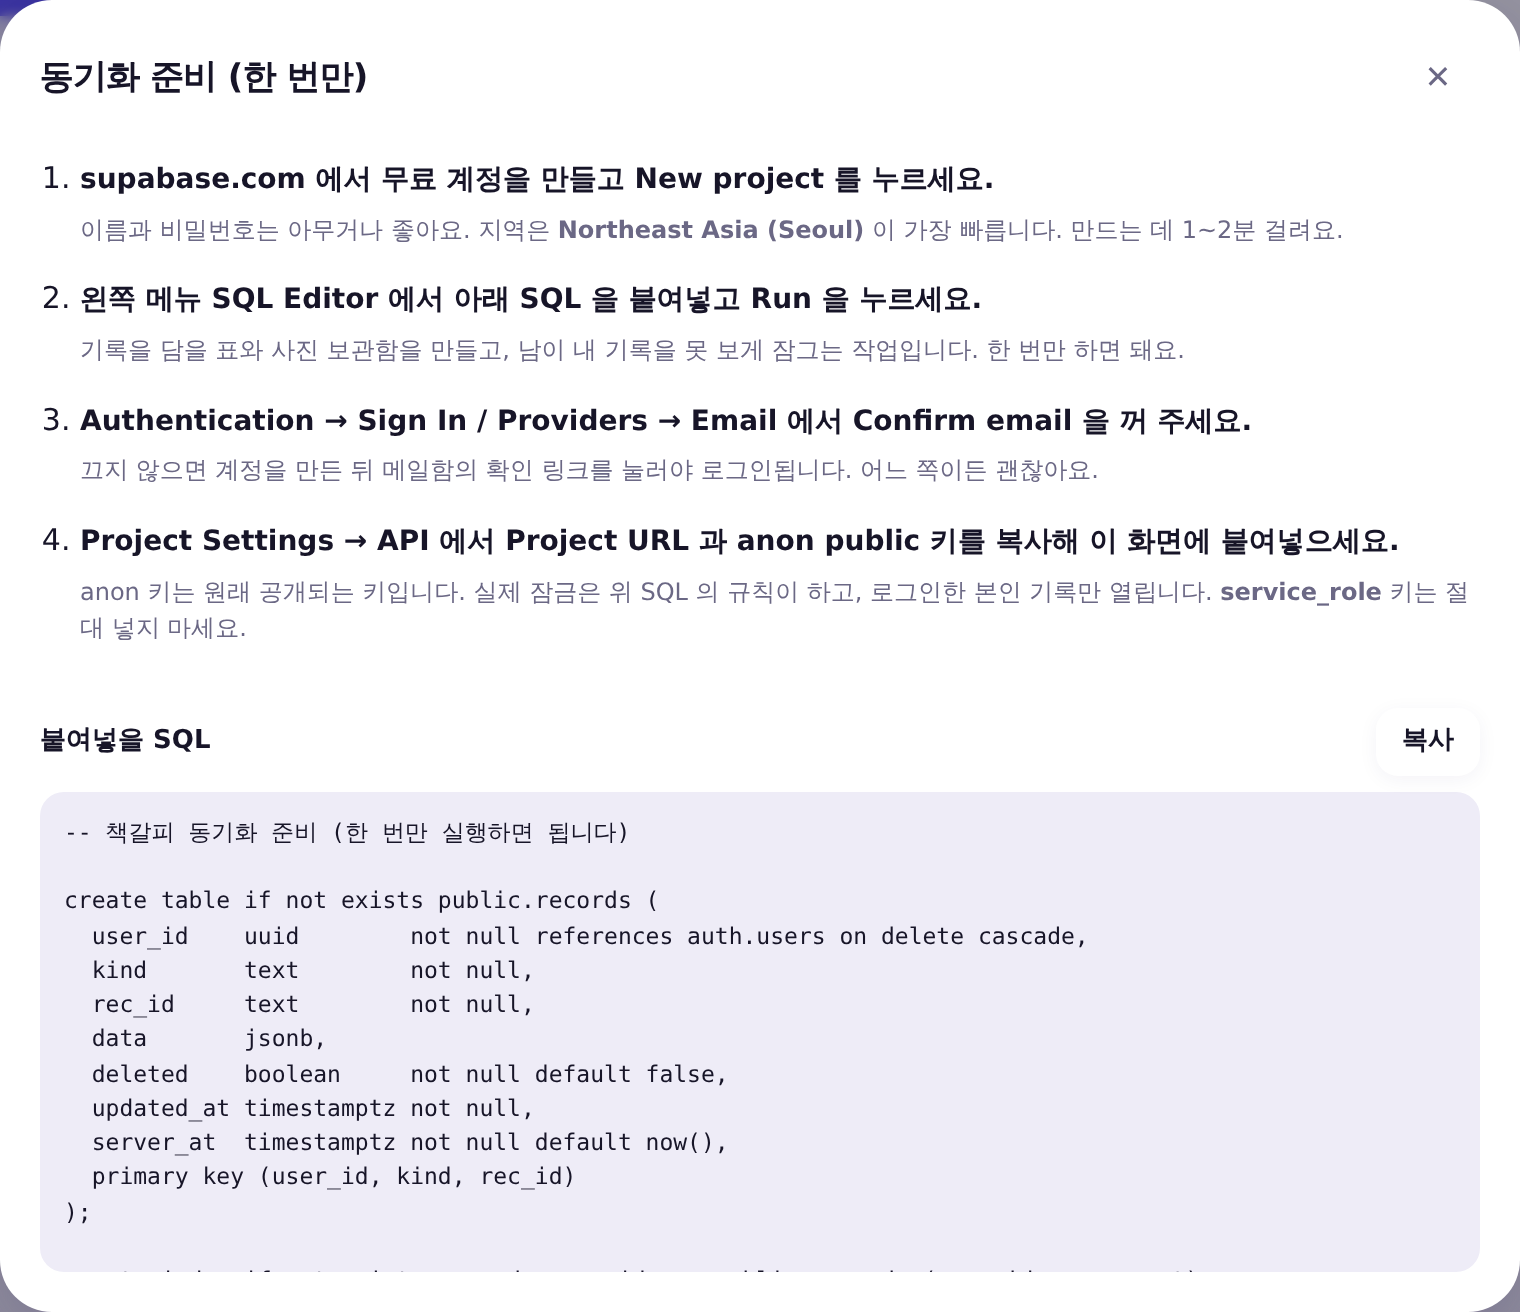
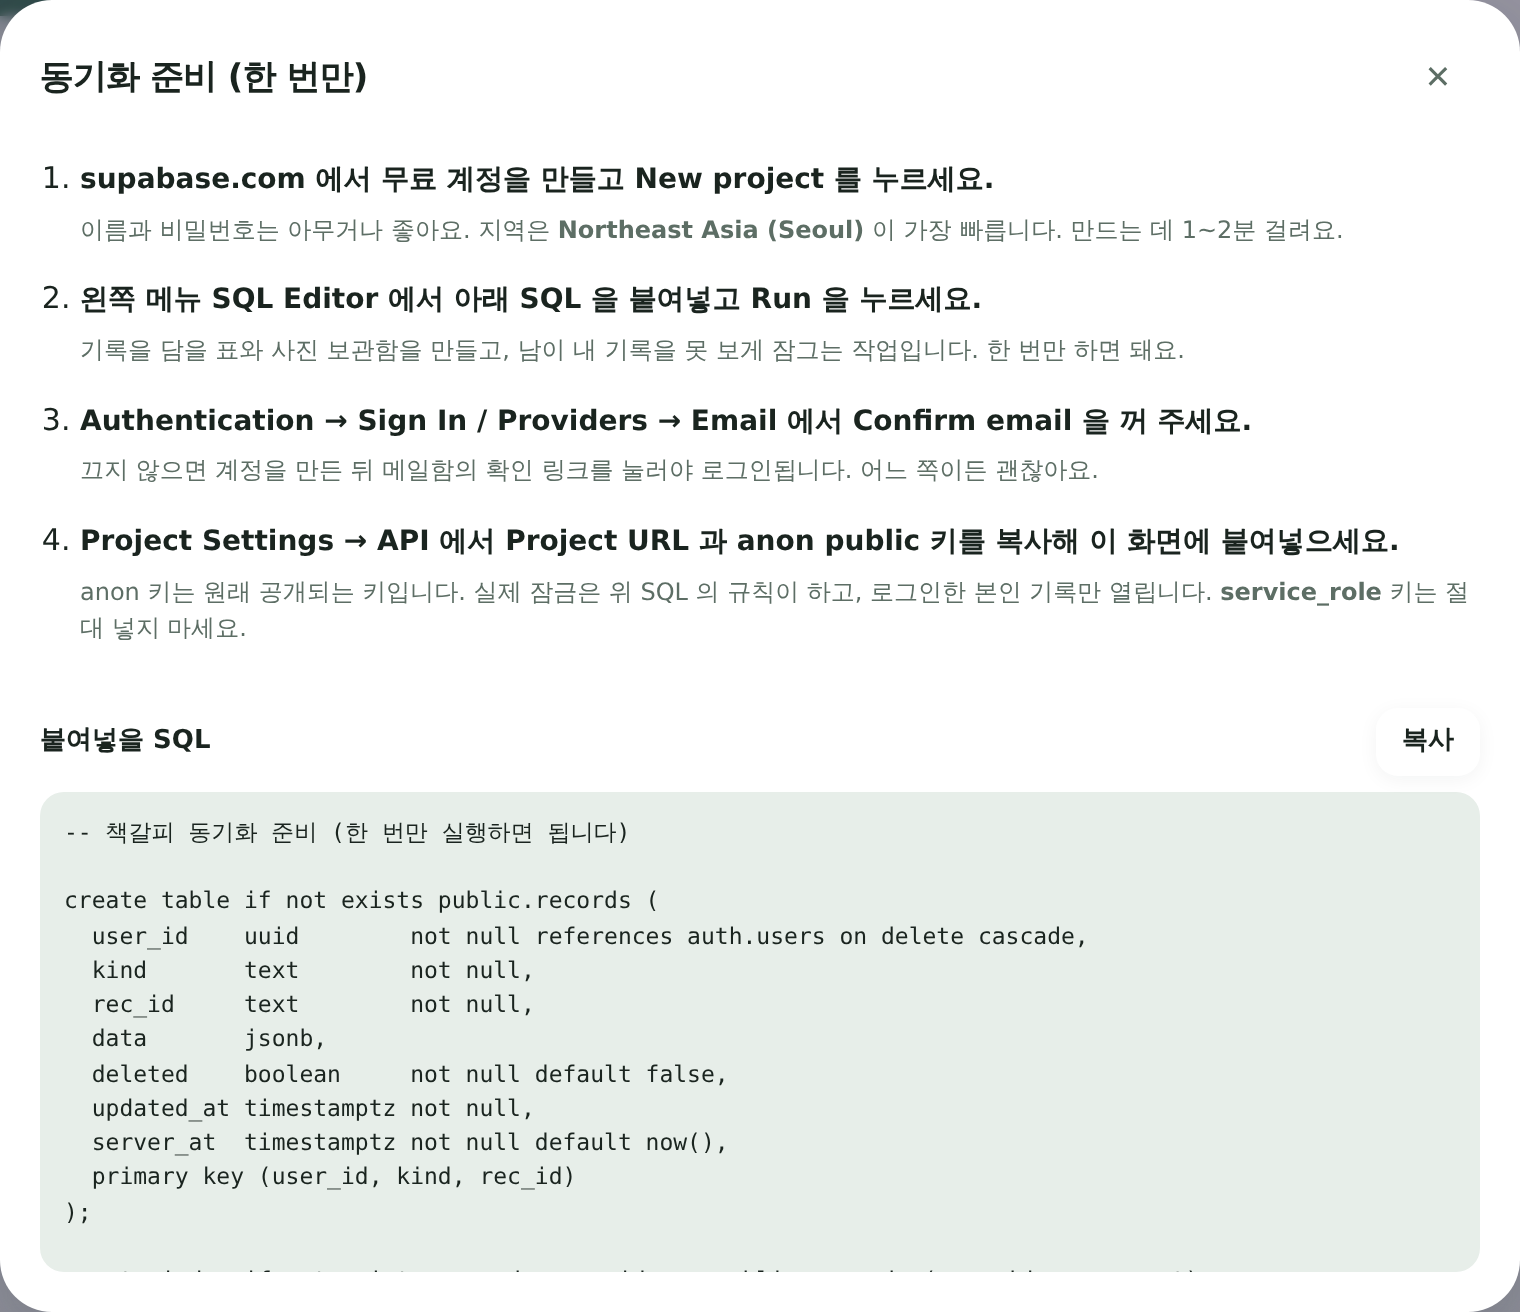
설정 버튼을 되살리고, 테마 색을 은은한 세이지 그린으로
디자인을 바꾸면서 설정이 들어 있던 옆 메뉴를 없앴는데 대신할 입구를
만들지 않아, 홈의 목표 카드를 누르는 것 말고는 설정에 닿을 길이 없었다.
상단바에 톱니바퀴를 두고 단축키 6 도 붙였다.

색은 파랑~보라에서 도서관 램프갓 같은 세이지 그린으로 옮겼다.
채도를 낮춰 은은하게 두되, 흰 글씨를 얹는 --accent 는 읽힐 만큼은
어둡게 잡았다. 밤에는 목표 카드를 한 단 더 가라앉힌다.

- 테마가 초록이 되면서 구매(초록)와 대출(청록)이 한 덩어리로 보여,
  빌린 책은 차분한 파랑(--lend)으로 따로 뺐다.
- 앱 아이콘과 매니페스트에 예전 종이 디자인의 주황색이 남아 있어 함께 맞췄다.
- input 은 기본 너비가 최소값으로 잡혀, min-width:0 이 없으면 좁은 화면에서
  상단바가 넘친다. 톱니바퀴를 넣으면서 드러났다.
- README·문서 사진을 새 색으로 다시 찍었다.

93개 통과 (기존 81 + 동기화 12).

Claude-Session: https://claude.ai/code/session_01Cp53XNTgAP4TSJ9zpSBQ1h

diff --git a/css/styles.css b/css/styles.css
@@ -3,36 +3,41 @@
    디자인 방향: 밝고 둥근 큰 카드(모바일 앱) + 상단 지표 줄(대시보드)
    ============================================================ */
 
+/* 색: 도서관 램프갓 같은 세이지 그린.
+   채도를 낮춰 은은하게 두되, 글자를 얹는 --accent 는 흰 글씨가 읽힐 만큼은 어둡게 잡았다. */
 :root {
-  --bg:          #f4f3f9;
+  --bg:          #f1f5f2;
   --bg-elev:     #ffffff;
-  --bg-sunk:     #eeecf7;
-  --line:        #e5e2f2;
-  --line-soft:   #f0eef8;
-  --text:        #171528;
-  --text-dim:    #6b6885;
-  --text-faint:  #a09dba;
+  --bg-sunk:     #e7eee9;
+  --line:        #dde8e1;
+  --line-soft:   #edf3ef;
+  --text:        #1a241f;
+  --text-dim:    #5d6e65;
+  --text-faint:  #94a69b;
 
-  --accent:      #5b52ff;
-  --accent-2:    #9b6bff;
-  --accent-soft: #eceafe;
+  --accent:      #4a7c64;
+  --accent-2:    #7fae95;
+  --accent-soft: #e6f0ea;
   --accent-ink:  #ffffff;
 
-  --ok:          #0fae8c;
-  --ok-soft:     #e0f8f2;
-  --warn:        #e39100;
-  --warn-soft:   #fff3dc;
-  --danger:      #e5503f;
-  --danger-soft: #ffeae7;
-  --star:        #ffb020;
+  /* 완독(ok)은 accent 와 같은 초록 가족이라, 조금 더 청록 쪽으로 밀어 구분한다 */
+  --ok:          #2f9e8b;
+  --ok-soft:     #e0f4ef;
+  --warn:        #c8891f;
+  --warn-soft:   #fbf1dc;
+  --danger:      #c65a4c;
+  --danger-soft: #fbe9e6;
+  --star:        #dfa63c;
+  --lend:        #47799f;   /* 빌린 책 — 구매(초록)와 갈리도록 */
+  --lend-soft:   #e6eff7;
 
   --radius:      24px;
   --radius-sm:   18px;
   --radius-xs:   14px;
 
-  --shadow:      0 4px 20px rgba(30, 20, 90, .07);
-  --shadow-sm:   0 2px 10px rgba(30, 20, 90, .05);
-  --shadow-lg:   0 10px 30px rgba(30, 20, 90, .16);
+  --shadow:      0 4px 20px rgba(24, 48, 38, .07);
+  --shadow-sm:   0 2px 10px rgba(24, 48, 38, .05);
+  --shadow-lg:   0 10px 30px rgba(24, 48, 38, .16);
 
   --topbar-h:    60px;
   --tabs-h:      86px;
@@ -44,27 +49,29 @@
 }
 
 html[data-theme="dark"] {
-  --bg:          #111020;
-  --bg-elev:     #1b1a2b;
-  --bg-sunk:     #262437;
-  --line:        #322f47;
-  --line-soft:   #262437;
-  --text:        #eeecf7;
-  --text-dim:    #a9a4c6;
-  --text-faint:  #76719c;
+  --bg:          #121815;
+  --bg-elev:     #1b231e;
+  --bg-sunk:     #253029;
+  --line:        #32403a;
+  --line-soft:   #253029;
+  --text:        #e8f0ea;
+  --text-dim:    #a2b3a8;
+  --text-faint:  #71857a;
 
-  --accent:      #8b84ff;
-  --accent-2:    #b38bff;
-  --accent-soft: #2b2748;
-  --accent-ink:  #100f1c;
+  --accent:      #7fb499;
+  --accent-2:    #a6cfb7;
+  --accent-soft: #23342b;
+  --accent-ink:  #0f1712;
 
-  --ok:          #3ad9b4;
-  --ok-soft:     #14332e;
-  --warn:        #f0b53f;
-  --warn-soft:   #362a12;
-  --danger:      #ff8073;
-  --danger-soft: #3a1f1d;
-  --star:        #f0b53f;
+  --ok:          #4ecab1;
+  --ok-soft:     #143330;
+  --warn:        #e0b055;
+  --warn-soft:   #352c14;
+  --danger:      #f08a7c;
+  --danger-soft: #38201d;
+  --star:        #e0b055;
+  --lend:        #7fb1d6;
+  --lend-soft:   #1d2b36;
 
   --shadow:      0 4px 20px rgba(0, 0, 0, .38);
   --shadow-sm:   0 2px 10px rgba(0, 0, 0, .3);
@@ -110,7 +117,8 @@ input[type="search"]::-webkit-search-cancel-button { -webkit-appearance: none; }
   font-weight: 800; font-size: 17px; letter-spacing: -.035em; color: var(--text);
 }
 .brand-mark { width: 20px; height: 20px; fill: var(--accent); }
-.topbar__search { flex: 1 1 auto; max-width: 420px; }
+/* min-width:0 이 없으면 input 의 기본 너비가 최소값으로 잡혀 좁은 화면에서 상단바가 넘친다 */
+.topbar__search { flex: 1 1 auto; max-width: 420px; min-width: 0; }
 .topbar__search input {
   width: 100%; height: 40px; padding: 0 16px;
   background: var(--bg-elev); border: 1px solid transparent; border-radius: 999px;
@@ -123,6 +131,8 @@ input[type="search"]::-webkit-search-cancel-button { -webkit-appearance: none; }
   box-shadow: 0 0 0 4px var(--accent-soft);
 }
 .topbar__actions { display: flex; gap: 8px; flex: 0 0 auto; margin-left: auto; }
+/* 지금 설정 화면에 있다는 표시 */
+.topbar__actions .is-active { background: var(--accent); color: var(--accent-ink); }
 
 .view {
   padding: calc(var(--topbar-h) + 16px) 16px calc(var(--tabs-h) + env(safe-area-inset-bottom));
@@ -235,6 +245,8 @@ input[type="search"]::-webkit-search-cancel-button { -webkit-appearance: none; }
 .badge--want    { background: var(--bg-sunk); color: var(--text-dim); }
 .badge--paused  { background: var(--warn-soft); color: var(--warn); }
 .badge--dropped { background: var(--danger-soft); color: var(--danger); }
+.badge--buy     { background: var(--accent-soft); color: var(--accent); }
+.badge--lend    { background: var(--lend-soft); color: var(--lend); }
 
 .progress { height: 10px; border-radius: 10px; background: var(--bg-sunk); overflow: hidden; position: relative; }
 .progress > i {
@@ -298,9 +310,14 @@ input[type="search"]::-webkit-search-cancel-button { -webkit-appearance: none; }
 @media (min-width: 900px) { .grid2 { grid-template-columns: 1.25fr 1fr; gap: 24px; align-items: start; } }
 
 .hero {
-  background: linear-gradient(135deg, #5b52ff, #8a6bff 60%, #a86bff);
+  /* 흰 글씨를 얹으므로 밝은 끝도 너무 밝게 두지 않는다 */
+  background: linear-gradient(135deg, #33675a, #47795f 55%, #5f9a7e);
   border-radius: 28px; padding: 22px; color: #fff; margin-bottom: 14px;
   position: relative; overflow: hidden;
+}
+/* 밤에는 한 단 더 가라앉힌다 — 어두운 화면에서 이 카드만 뜨면 눈이 아프다 */
+html[data-theme="dark"] .hero {
+  background: linear-gradient(135deg, #1c4638, #275445 55%, #3a7160);
 }
 .hero::after {
   content: ""; position: absolute; right: -40px; top: -50px; width: 190px; height: 190px;
@@ -616,8 +633,10 @@ input[type="search"]::-webkit-search-cancel-button { -webkit-appearance: none; }
 .acq-cell__k { font-size: 12px; color: var(--text-faint); font-weight: 700; margin-top: 2px; }
 .acq-bar { display: flex; height: 12px; border-radius: 12px; overflow: hidden; background: var(--bg-sunk); }
 .acq-bar > i { display: block; height: 100%; }
+/* 테마가 초록이라 구매(초록)와 대출을 같은 초록 가족으로 두면 한눈에 갈리지 않는다.
+   빌린 책은 차분한 파랑으로 따로 뺀다. */
 .acq-bar > i.buy { background: var(--accent); }
-.acq-bar > i.lend { background: var(--ok); }
+.acq-bar > i.lend { background: var(--lend); }
 
 /* ---------- 반납 임박 알림 ---------- */
 .duebar {

diff --git a/index.html b/index.html
@@ -4,7 +4,7 @@
 <meta charset="utf-8" />
 <meta name="viewport" content="width=device-width, initial-scale=1, viewport-fit=cover" />
 <meta name="description" content="책갈피 — 읽는 시간을 기록하는 나만의 독서 서재" />
-<meta name="theme-color" content="#f4f3f9" />
+<meta name="theme-color" content="#f1f5f2" />
 <title>책갈피 · 독서기록</title>
 <link rel="manifest" href="./manifest.webmanifest" />
 <link rel="icon" href="./assets/icon.svg" type="image/svg+xml" />
@@ -22,6 +22,7 @@
       <input id="globalSearch" type="search" placeholder="내 서재에서 검색  (/)" autocomplete="off" />
     </div>
     <div class="topbar__actions">
+      <a id="btnSettings" class="btn btn--icon btn--soft" href="#/settings" data-route="settings" title="설정" aria-label="설정">⚙</a>
       <button id="btnTheme" class="btn btn--icon btn--soft" type="button" title="테마 전환 (T)" aria-label="테마 전환">◐</button>
       <button id="btnAddBook" class="btn btn--primary" type="button">
         <span class="i">＋</span><span class="lbl">책 추가</span>

diff --git a/js/views/settings.js b/js/views/settings.js
@@ -112,7 +112,7 @@ export default function settingsView() {
         <div class="section__head"><h2>단축키 (PC)</h2></div>
         <div class="card" style="padding:8px 16px">
           ${[['/', '검색창으로 이동'], ['N', '책 추가'], ['Q', '문장 기록'],
-             ['T', '테마 전환'], ['1~5', '탭 이동'], ['Esc', '창 닫기']].map(([k, v]) => `
+             ['T', '테마 전환'], ['1~5', '탭 이동'], ['6', '설정'], ['Esc', '창 닫기']].map(([k, v]) => `
             <div style="display:flex;gap:12px;padding:9px 0;border-bottom:1px solid var(--line-soft);font-size:13.5px">
               <kbd style="background:var(--bg-sunk);border-radius:6px;padding:1px 8px;font-family:var(--font);font-weight:700;min-width:44px;text-align:center">${esc(k)}</kbd>
               <span class="muted">${esc(v)}</span>

diff --git a/js/views/stats.js b/js/views/stats.js
@@ -195,7 +195,7 @@ export default function statsView() {
             ${acq.places.slice(0, 8).map((r, i) => `
               <div class="rank-row">
                 <span class="n">${i + 1}</span>
-                <span class="badge badge--${r.type === 'purchase' ? 'want' : 'reading'}"
+                <span class="badge badge--${r.type === 'purchase' ? 'buy' : 'lend'}"
                       style="flex:0 0 auto">${r.type === 'purchase' ? '구매' : '대출'}</span>
                 <span style="flex:1;min-width:0;overflow:hidden;text-overflow:ellipsis;white-space:nowrap">${esc(r.place)}</span>
                 <span class="v">${r.value}권</span>

diff --git a/js/charts.js b/js/charts.js
@@ -45,7 +45,7 @@ export function rankList(rows, { valueFmt = (v) => v, max: maxN = 6 } = {}) {
     </div>`).join('');
 }
 
-const DONUT_COLORS = ['#5b52ff', '#14c8a0', '#ffb020', '#ff6b5e', '#a86bff', '#3aa0ff', '#7e8bb5', '#e15fa6'];
+const DONUT_COLORS = ['#4a7c64', '#dfa63c', '#c96f5a', '#5b8fb9', '#3fa3a3', '#9c7fb8', '#8a9a7b', '#d08bb0'];
 
 /** 도넛 차트 + 범례 */
 export function donutChart(data, { size = 150 } = {}) {

diff --git a/js/theme.js b/js/theme.js
@@ -7,7 +7,7 @@ function paint() {
   const dark = mode === 'dark' || (mode === 'auto' && media.matches);
   document.documentElement.dataset.theme = dark ? 'dark' : 'light';
   const meta = document.querySelector('meta[name="theme-color"]');
-  if (meta) meta.setAttribute('content', dark ? '#111020' : '#f4f3f9');
+  if (meta) meta.setAttribute('content', dark ? '#121815' : '#f1f5f2');
 }
 
 export function applyTheme(next) {

diff --git a/js/app.js b/js/app.js
@@ -132,6 +132,7 @@ function wireChrome() {
       3: () => go('#/timeline'),
       4: () => go('#/notes'),
       5: () => go('#/stats'),
+      6: () => go('#/settings'),
     };
     const fn = map[e.key.toLowerCase()];
     if (fn) { e.preventDefault(); fn(); }
